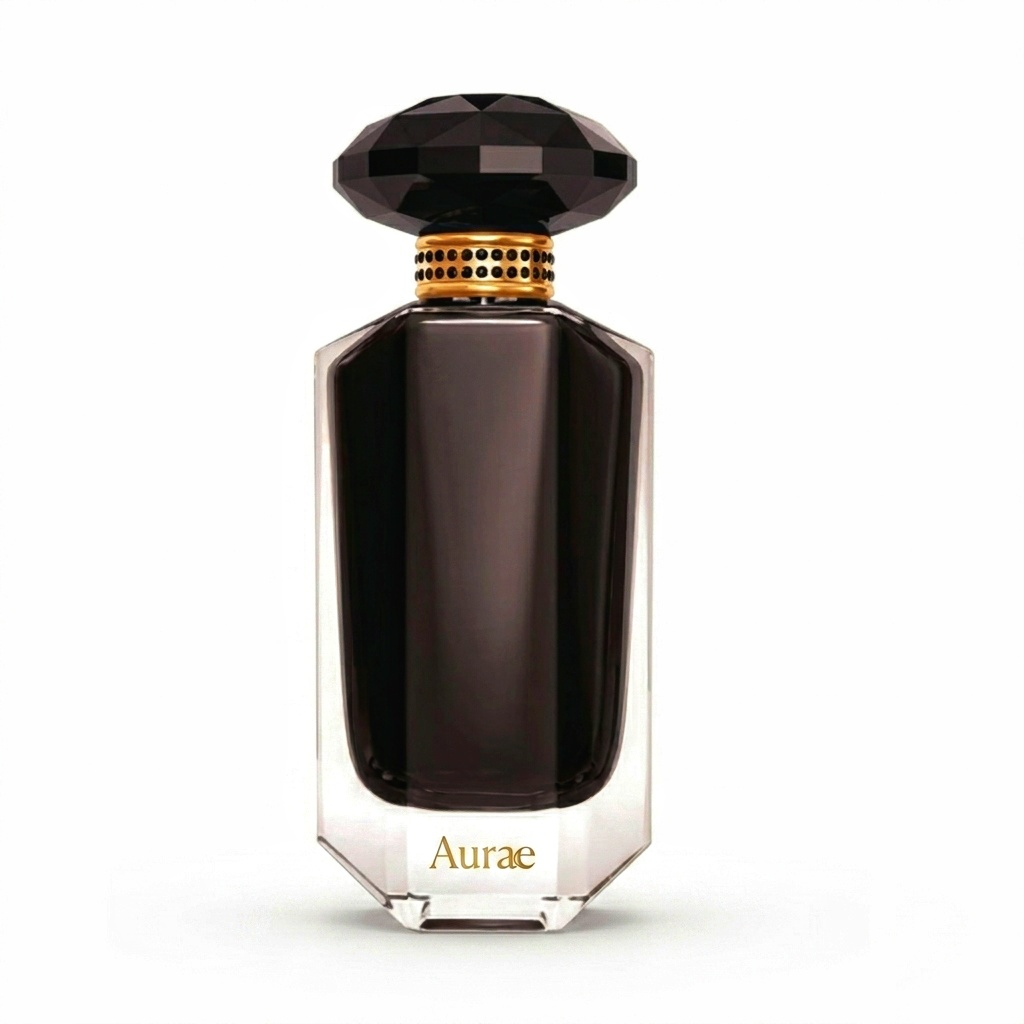
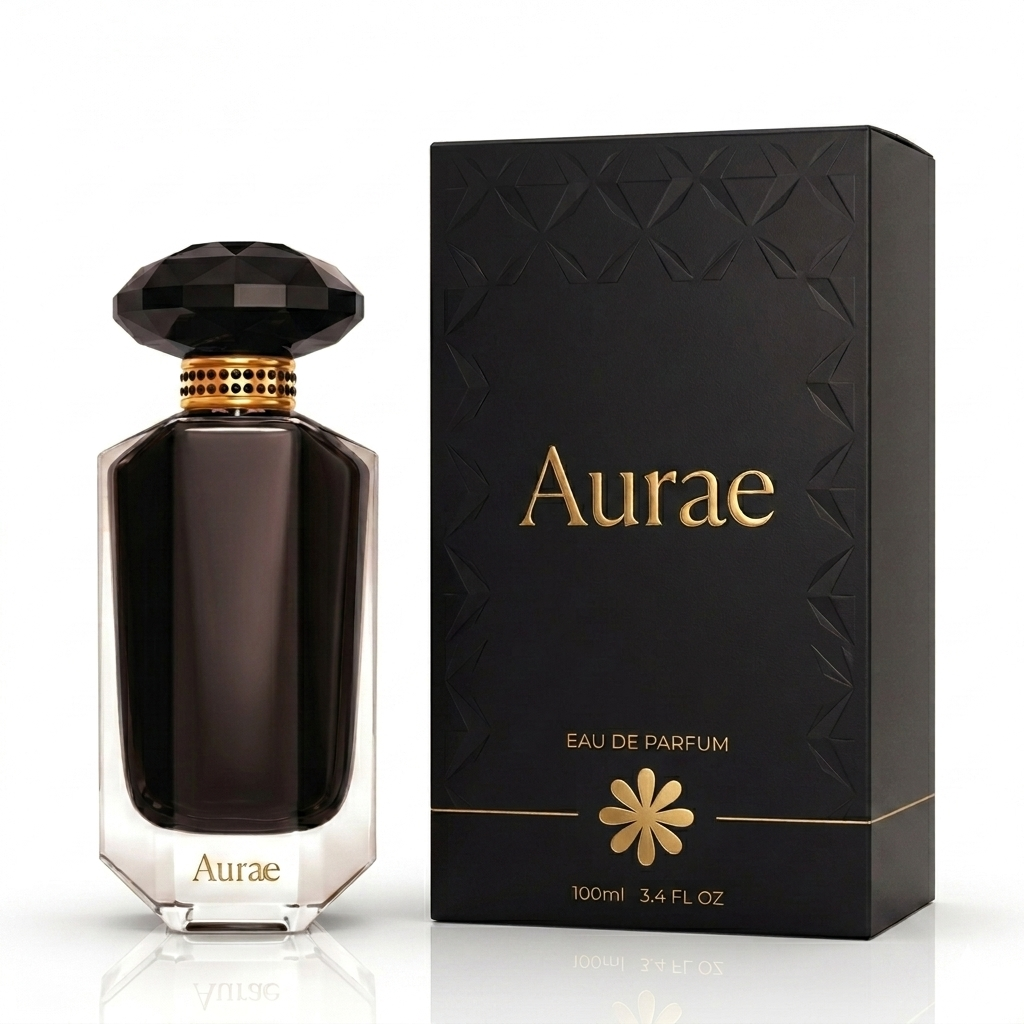
Updated shop

diff --git a/src/app/components/ProductCard.tsx b/src/app/components/ProductCard.tsx
@@ -1,0 +1,220 @@
+'use client'
+
+import { useIsMobile } from '../hooks/useIsMobile';
+import { useRef, useState } from 'react';
+
+type ProductCardProps = {
+    name: string;
+    image: string;
+    price: string;
+}
+
+export const ProductCard = ({name, image, price}: ProductCardProps) => {
+
+    const isMobile = useIsMobile();
+    const [quantity, setQuantity] = useState(1);
+
+    const [scale, setScale] = useState(1);
+    const [position, setPosition] = useState({ x: 0, y: 0 });
+
+    const imageDragging = useRef(false);
+    const imageStart = useRef({ x: 0, y: 0 });
+
+    const containerRef = useRef<HTMLDivElement>(null);
+
+    const [x, setX] = useState(0);
+    const [swipeDragging, setSwipeDragging] = useState(false);
+    const [bought, setBought] = useState(false);
+
+    const swipeStart = useRef(0);
+
+    const onImageMouseDown = (e: React.MouseEvent) => {
+        if (scale <= 1) return;
+
+        imageDragging.current = true;
+
+        imageStart.current = {
+            x: e.clientX - position.x,
+            y: e.clientY - position.y,
+        };
+    };
+
+    const onImageMouseMove = (e: React.MouseEvent) => {
+        if (!imageDragging.current) return;
+
+        setPosition({
+            x: e.clientX - imageStart.current.x,
+            y: e.clientY - imageStart.current.y,
+        });
+    };
+
+    const stopImageDragging = () => {
+        imageDragging.current = false;
+    };
+
+    const onSwipeMouseDown = (e: React.MouseEvent) => {
+        if (bought) return;
+
+        setSwipeDragging(true);
+
+        swipeStart.current = e.clientX - x;
+    };
+
+    const onSwipeMouseMove = (e: React.MouseEvent) => {
+        if (!swipeDragging || !containerRef.current) return;
+
+        const containerWidth = containerRef.current.offsetWidth;
+        const buttonWidth = 90;
+
+        let newX = e.clientX - swipeStart.current;
+
+        const maxX = containerWidth - buttonWidth;
+
+        newX = Math.max(0, Math.min(newX, maxX));
+
+        setX(newX);
+
+        if (newX >= maxX - 10) {
+            setBought(true);
+            setSwipeDragging(false);
+
+            alert('Succesfully Bought!');
+        }
+    };
+
+    const stopSwipeDragging = () => {
+        setSwipeDragging(false);
+
+        if (!bought) {
+            setX(0);
+        }
+    };
+
+    return (
+        <div className={`${isMobile? "max-w-[160px]" : ""}
+            relative flex flex-col items-center justify-center shadow-lg gap-[calc(0.6vw+0.4rem)] bg-[#ffffff] overflow-hidden`}>
+
+            <div className={`${isMobile? "" : ""}
+                overflow-hidden flex items-center justify-center bg-[#F5F5F5]`}
+                onMouseMove={onImageMouseMove}
+                onMouseUp={stopImageDragging}
+                onMouseLeave={stopImageDragging}>
+                <img src={image}
+                    alt="Obelisk Perfume"
+                    draggable={false}
+                    onMouseDown={onImageMouseDown}
+                    onWheel={(e) => {
+                        e.preventDefault();
+
+                        const nextScale =
+                            e.deltaY < 0
+                                ? Math.min(scale + 0.2, 3)
+                                : Math.max(scale - 0.2, 1);
+
+                        setScale(nextScale);
+
+                        if (nextScale === 1) {
+                            setPosition({ x: 0, y: 0 });
+                        }
+                    }}
+                    style={{transform: `translate(${position.x}px, ${position.y}px) scale(${scale})`,
+                        cursor:
+                            scale <= 1
+                                ? 'default'
+                                : imageDragging.current
+                                    ? 'grabbing'
+                                    : 'grab',
+                        transition:
+                            imageDragging.current
+                                ? 'none'
+                                : 'transform 120ms ease',
+                    }}
+                    className={`${isMobile? "max-h-[160px] w-full" : "max-h-[360px] max-w-[360px]"}
+                        select-none will-change-transform`}
+                />
+            </div>
+
+            <div className='gap-[calc(0.6vw+0.4rem)] p-[calc(0.6vw+0.4rem)] w-full flex flex-col items-start justify-center'>
+
+                <span className='italic text-[#CDC9C3] text-[length:var(--normal-font-size)]'>
+                    Hover & scroll up to inspect
+                </span>
+                
+                <div className='flex flex-row items-center justify-center gap-[calc(0.4vw+0.3rem)]'>
+                    <span className='font-semibold text-[#555555] text-[length:var(--normal-font-size)]'>
+                        {name}
+                    </span>
+                </div>
+
+                <div className='w-full flex flex-col items-start justify-start gap-[calc(0.4vw+0.3rem)]'>
+
+                    {!isMobile && <div className='w-full flex flex-row items-center justify-between gap-[calc(0.4vw+0.3rem)] py-[calc(0.4vw+0.3rem)]'>
+
+                        <div className='flex flex-row items-center justify-start gap-[calc(0.4vw+0.3rem)] flex-wrap'>
+
+                            <span className='text-[length:var(--normal-font-size)]'>Quantity</span>
+
+                            <div className='flex flex-row items-center justify-center gap-[calc(0.4vw+0.3rem)] bg-gray-100'>
+
+                                <i className="bx bx-minus text-[calc(0.6vw+0.4rem)] cursor-pointer pl-[1rem] pr-[0.5rem]"
+                                    onClick={() =>
+                                        setQuantity(Math.max(1, quantity - 1))
+                                    }
+                                />
+
+                                <span className='py-[0.5rem] text-[length:var(--small-font-size)]'>
+                                    {quantity}
+                                </span>
+
+                                <i className="bx bx-plus text-[calc(0.6vw+0.4rem)] cursor-pointer pl-[0.5rem] pr-[1rem]"
+                                    onClick={() =>
+                                        setQuantity(quantity + 1)
+                                    }
+                                />
+                            </div>
+
+                        </div>
+
+                        <i className="bx bx-cart-plus text-[1.8rem] text-[#555555] cursor-pointer hover:text-[#CDC9C3]
+                            transition duration-300 ease-in-out" onClick={() => alert("Added to cart")} />
+                    </div>}
+
+                    {!isMobile && <div ref={containerRef}
+                        className='w-full relative flex flex-row items-center justify-between rounded-xl bg-[#CDC9C3] overflow-hidden'
+                        onMouseMove={onSwipeMouseMove}
+                        onMouseUp={stopSwipeDragging}
+                        onMouseLeave={stopSwipeDragging}>
+                        <span onMouseDown={onSwipeMouseDown}
+                            style={{
+                                transform: `translateX(${x}px)`,
+                                transition:
+                                    swipeDragging
+                                        ? 'none'
+                                        : 'transform 0.2s ease',
+                            }}
+                            className='text-white cursor-grab active:cursor-grabbing bg-[#555555] p-[calc(0.4vw+0.6rem)] rounded-xl z-10 select-none
+                                text-[length:var(--normal-font-size)]'>
+                            {bought ? '$30' : '$30'}
+                        </span>
+
+                        <span className='italic text-sm p-[calc(0.4vw+0.6rem)] text-white w-full text-center pointer-events-none
+                            text-[length:var(--normal-font-size)]'>
+                            {bought ? 'Purchase complete' : 'Swipe to buy'}
+                        </span>
+                    </div>}
+
+                    {isMobile && 
+                        <div className='w-full flex flex-row items-center justify-between'>
+                            <span className='text-[#555555] text-[length:var(--small-font)]'>
+                                {price}
+                            </span>
+                            <i className="bx bx-cart-plus text-[length:var(--icon-size)] text-[#555555] cursor-pointer hover:text-[#CDC9C3]
+                                transition duration-300 ease-in-out" onClick={() => alert("Added to cart")} />
+                        </div>
+                    }
+
+                </div>
+            </div>
+        </div>
+    );
+};

diff --git a/src/app/layouts/Shop.tsx b/src/app/layouts/Shop.tsx
@@ -1,4 +1,5 @@
 import { useIsMobile } from "../hooks/useIsMobile"
+import { ProductCard } from "../components/ProductCard"
 import Dark from '../assets/Dark.png'
 import Red from '../assets/Red.png'
 import Orange from '../assets/Orange.png'
@@ -40,75 +41,19 @@ function Shop({isDark}: ShopProps) {
 
             </div>
 
-            <div className="flex flex-row items-center justify-center flex-wrap py-[calc(0.4vw+0.6rem)]">
+            <div className="flex flex-col items-center justify-center flex-wrap py-[calc(0.4vw+0.6rem)] gap-[calc(0.4vw+0.6rem)]">
 
                 <div className="flex flex-row items-center justify-center flex-wrap gap-[calc(0.4vw+0.6rem)]">
-                    <div className="flex flex-col items-start justify-start gap-[calc(0.4vw+0.6rem)]">
-                        <img src={Dark.src} className="h-[calc(13vw+7rem)] w-[calc(13vw+7rem)] cursor-pointer" alt="" />
-                        <span className="text-[length:var(--normal-font-size)] hovered cursor-pointer fadeIn">Dark Eau De Parfum</span>
-                        <div className="w-full flex flex-row items-center justify-between gap-[calc(0.4vw+0.6rem)]">
-                            <span className="text-[length:var(--normal-font-size)] hovered cursor-pointer fadeIn text-gray-500">$20</span>
-                            <i className="bx bx-cart-plus text-[length:var(--icon-size)] hovered cursor-pointer fadeIn" />
-                        </div>
-                    </div>
-                    <div className="flex flex-col items-start justify-start gap-[calc(0.4vw+0.6rem)]">
-                        <img src={Red.src} className="h-[calc(13vw+7rem)] w-[calc(13vw+7rem)] cursor-pointer" alt="" />
-                        <span className="text-[length:var(--normal-font-size)] hovered cursor-pointer fadeIn">Blood Eau De Parfum</span>
-                        <div className="w-full flex flex-row items-center justify-between gap-[calc(0.4vw+0.6rem)]">
-                            <span className="text-[length:var(--normal-font-size)] hovered cursor-pointer fadeIn text-gray-500">$20</span>
-                            <i className="bx bx-cart-plus text-[length:var(--icon-size)] hovered cursor-pointer fadeIn" />
-                        </div>
-                    </div>
-                    <div className="flex flex-col items-start justify-start gap-[calc(0.4vw+0.6rem)]">
-                        <img src={Orange.src} className="h-[calc(13vw+7rem)] w-[calc(13vw+7rem)] cursor-pointer" alt="" />
-                        <span className="text-[length:var(--normal-font-size)] hovered cursor-pointer fadeIn">Sol Eau De Parfum</span>
-                        <div className="w-full flex flex-row items-center justify-between gap-[calc(0.4vw+0.6rem)]">
-                            <span className="text-[length:var(--normal-font-size)] hovered cursor-pointer fadeIn text-gray-500">$20</span>
-                            <i className="bx bx-cart-plus text-[length:var(--icon-size)] hovered cursor-pointer fadeIn" />
-                        </div>
-                    </div>
-                    <div className="flex flex-col items-start justify-start gap-[calc(0.4vw+0.6rem)]">
-                        <img src={Purple.src} className="h-[calc(13vw+7rem)] w-[calc(13vw+7rem)] cursor-pointer" alt="" />
-                        <span className="text-[length:var(--normal-font-size)] hovered cursor-pointer fadeIn">Grape Eau De Parfum</span>
-                        <div className="w-full flex flex-row items-center justify-between gap-[calc(0.4vw+0.6rem)]">
-                            <span className="text-[length:var(--normal-font-size)] hovered cursor-pointer fadeIn text-gray-500">$20</span>
-                            <i className="bx bx-cart-plus text-[length:var(--icon-size)] hovered cursor-pointer fadeIn" />
-                        </div>
-                    </div>
+                    <ProductCard name={"Dark Eau Perfume"} image={Dark.src} price={"$30"} />
+                    <ProductCard name={"Dark Eau Perfume"} image={Dark.src} price={"$30"} />
+                    <ProductCard name={"Dark Eau Perfume"} image={Dark.src} price={"$30"} />
+                    <ProductCard name={"Dark Eau Perfume"} image={Dark.src} price={"$30"} />
                 </div>
-                <div className="flex flex-row items-center justify-center flex-wrap gap-[calc(0.4vw+0.6rem)] py-[calc(0.4vw+0.6rem)]">
-                    <div className="flex flex-col items-start justify-start gap-[calc(0.4vw+0.6rem)]">
-                        <img src={Sanctum.src} className="h-[calc(13vw+7rem)] w-[calc(13vw+7rem)] cursor-pointer" alt="" />
-                        <span className="text-[length:var(--normal-font-size)] hovered cursor-pointer fadeIn">Sanctum Eau De Parfum</span>
-                        <div className="w-full flex flex-row items-center justify-between gap-[calc(0.4vw+0.6rem)]">
-                            <span className="text-[length:var(--normal-font-size)] hovered cursor-pointer fadeIn text-gray-500">$30</span>
-                            <i className="bx bx-cart-plus text-[length:var(--icon-size)] hovered cursor-pointer fadeIn" />
-                        </div>
-                    </div>
-                    <div className="flex flex-col items-start justify-start gap-[calc(0.4vw+0.6rem)]">
-                        <img src={Charm.src} className="h-[calc(13vw+7rem)] w-[calc(13vw+7rem)] cursor-pointer" alt="" />
-                        <span className="text-[length:var(--normal-font-size)] hovered cursor-pointer fadeIn">Charm Eau De Parfum</span>
-                        <div className="w-full flex flex-row items-center justify-between gap-[calc(0.4vw+0.6rem)]">
-                            <span className="text-[length:var(--normal-font-size)] hovered cursor-pointer fadeIn text-gray-500">$40</span>
-                            <i className="bx bx-cart-plus text-[length:var(--icon-size)] hovered cursor-pointer fadeIn" />
-                        </div>
-                    </div>
-                    <div className="flex flex-col items-start justify-start gap-[calc(0.4vw+0.6rem)]">
-                        <img src={Stellar.src} className="h-[calc(13vw+7rem)] w-[calc(13vw+7rem)] cursor-pointer" alt="" />
-                        <span className="text-[length:var(--normal-font-size)] hovered cursor-pointer fadeIn">Stellar Eau De Parfum</span>
-                        <div className="w-full flex flex-row items-center justify-between gap-[calc(0.4vw+0.6rem)]">
-                            <span className="text-[length:var(--normal-font-size)] hovered cursor-pointer fadeIn text-gray-500">$50</span>
-                            <i className="bx bx-cart-plus text-[length:var(--icon-size)] hovered cursor-pointer fadeIn" />
-                        </div>
-                    </div>
-                    <div className="flex flex-col items-start justify-start gap-[calc(0.4vw+0.6rem)]">
-                        <img src={Obelisk.src} className="h-[calc(13vw+7rem)] w-[calc(13vw+7rem)] cursor-pointer" alt="" />
-                        <span className="text-[length:var(--normal-font-size)] hovered cursor-pointer fadeIn">Obelisk Eau De Parfum</span>
-                        <div className="w-full flex flex-row items-center justify-between gap-[calc(0.4vw+0.6rem)]">
-                            <span className="text-[length:var(--normal-font-size)] hovered cursor-pointer fadeIn text-gray-500">$50</span>
-                            <i className="bx bx-cart-plus text-[length:var(--icon-size)] hovered cursor-pointer fadeIn" />
-                        </div>
-                    </div>
+                <div className="flex flex-row items-center justify-center flex-wrap gap-[calc(0.4vw+0.6rem)]">
+                    <ProductCard name={"Dark Eau Perfume"} image={Dark.src} price={"$30"} />
+                    <ProductCard name={"Dark Eau Perfume"} image={Dark.src} price={"$30"} />
+                    <ProductCard name={"Dark Eau Perfume"} image={Dark.src} price={"$30"} />
+                    <ProductCard name={"Dark Eau Perfume"} image={Dark.src} price={"$30"} />
                 </div>
 
             </div>

diff --git a/src/app/layouts/Content.tsx b/src/app/layouts/Content.tsx
@@ -19,8 +19,13 @@ function Content({isDark}: ContentProps) {
         
         <div className={`${isMobile? "h-auto" : "h-auto"}
             ${isDark? "text-[var(--light-color)] bg-[var(--dark-color)]" : "bg-[var(--light-color)] text-[var(--dark-color)]"}
-            w-full flex flex-col items-start justify-start scroll-smooth`}>
+            w-full flex flex-col items-center justify-start scroll-smooth`}>
             
+            <div className="h-auto w-full">
+                <video autoPlay muted loop playsInline className="w-full h-full object-cover">
+                    <source src="/Hero.mp4" type="video/mp4" className="h-full w-full" />
+                </video>
+            </div>
             <div className="flex">
                 <Hero isDark={isDark}/>
             </div>

diff --git a/src/app/globals.css b/src/app/globals.css
@@ -8,7 +8,8 @@
   --background: #ededed;
   --foreground: #171717;
 
-  --normal-font-size: clamp(12px, 0.9vw + 0.4rem, 16px);
+  --small-font-size: clamp(0.4rem, 0.6vw + 0.4rem, 0.9rem);
+  --normal-font-size: clamp(0.8rem, 0.6vw + 0.4rem, 1rem);
   --medium-font-size: clamp(18px, 1.2vw + 0.8rem, 30px);
   --large-font-size: clamp(24px, 3.2vw + 3.6rem, 48px);
   --hero-font-size: clamp(36px, 4vw + 1rem, 64px);